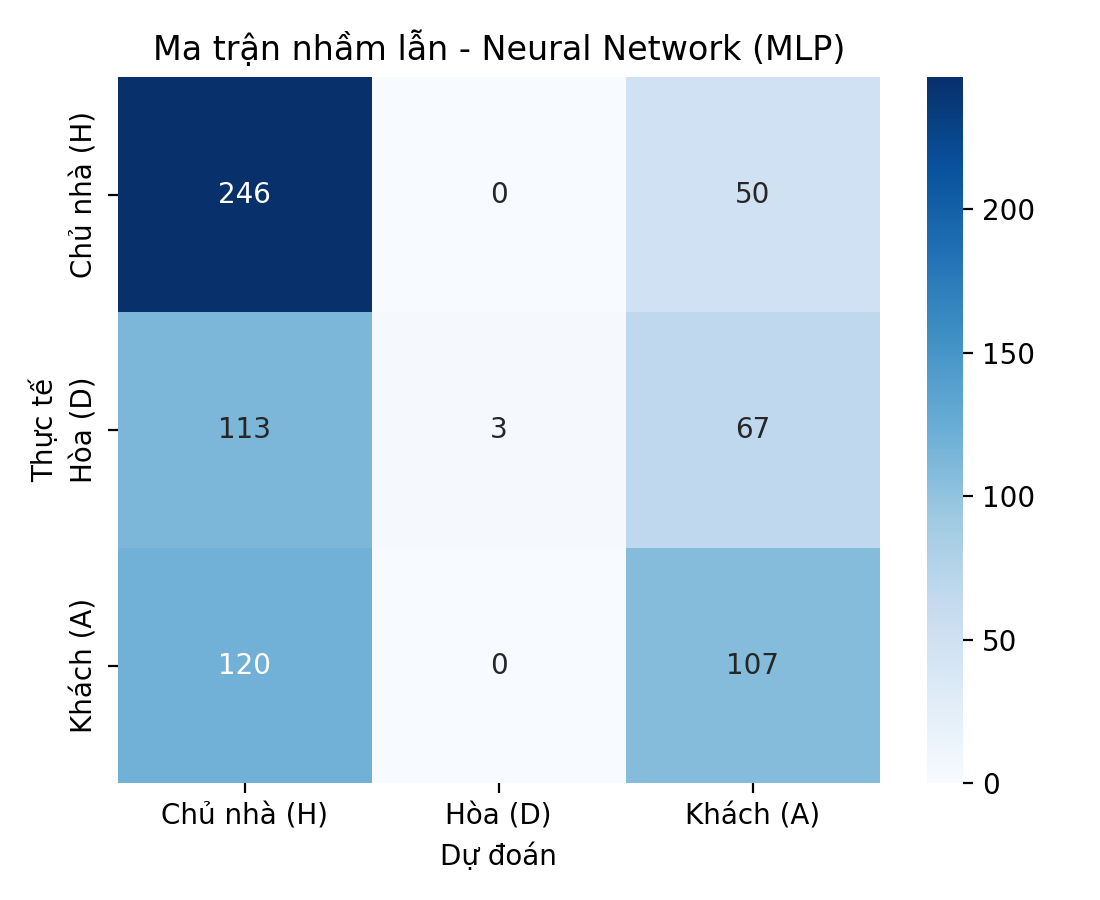
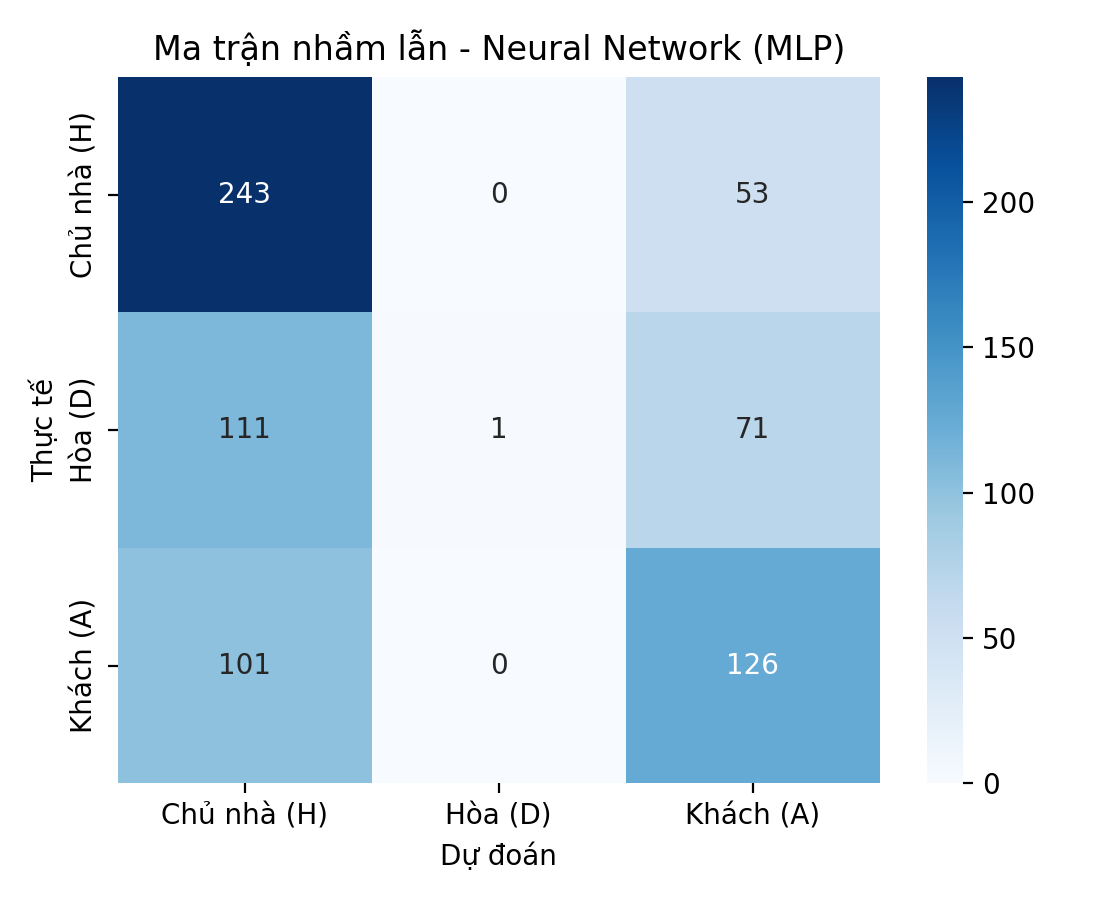
Toi uu MLP

diff --git a/main.py b/main.py
@@ -45,22 +45,22 @@ def main():
                 continue
 
             print("\nChọn mô hình muốn dùng để dự đoán:")
-            print("  [1] Logistic Regression ")
-            print("  [2] Random Forest ")
-            print("  [3] Support Vector Machine - SVM ")
-            print("  [4] XGBoost ")
-            print("  [5] Neural Network - MLP ")
+            print("  [1] Neural Network - MLP (Tối ưu nhất - 52.41%)")
+            print("  [2] Logistic Regression (51.42%)")
+            print("  [3] Random Forest (50.99%)")
+            print("  [4] Support Vector Machine - SVM (50.85%)")
+            print("  [5] XGBoost (50.85%)")
             m_choice = input("Chọn mô hình (1-5, bấm Enter mặc định là 1): ").strip()
 
             model_map = {
-                "1": "logistic_regression",
-                "2": "random_forest",
-                "3": "support_vector_machine_svm",
-                "4": "xgboost",
-                "5": "neural_network_mlp",
-                "": "logistic_regression",
+                "1": "neural_network_mlp",
+                "2": "logistic_regression",
+                "3": "random_forest",
+                "4": "support_vector_machine_svm",
+                "5": "xgboost",
+                "": "neural_network_mlp",
             }
-            selected_model = model_map.get(m_choice, "logistic_regression")
+            selected_model = model_map.get(m_choice, "neural_network_mlp")
 
             predict_upcoming_match(home, away, selected_model)
 

diff --git a/src/train.py b/src/train.py
@@ -106,10 +106,11 @@ def train_and_compare_models():
                 (
                     "mlp",
                     MLPClassifier(
-                        hidden_layer_sizes=(16, 8),
-                        activation="relu",
-                        alpha=0.5,
-                        max_iter=600,
+                        hidden_layer_sizes=(16,),
+                        activation="tanh",
+                        alpha=9.0,
+                        learning_rate_init=0.005,
+                        max_iter=500,
                         early_stopping=True,
                         n_iter_no_change=15,
                         random_state=42,
